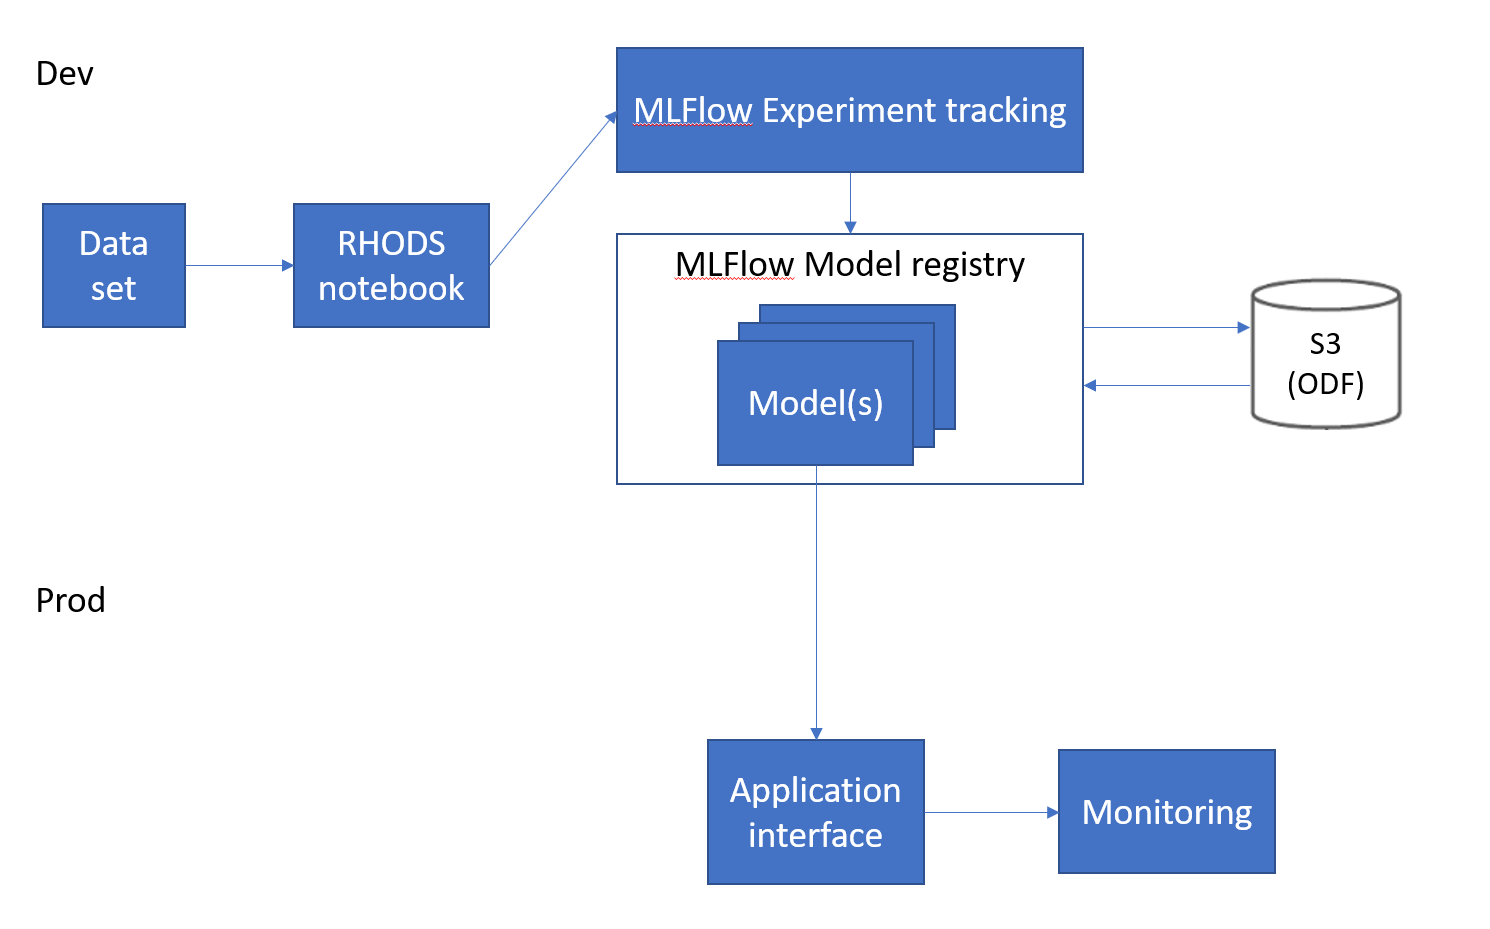
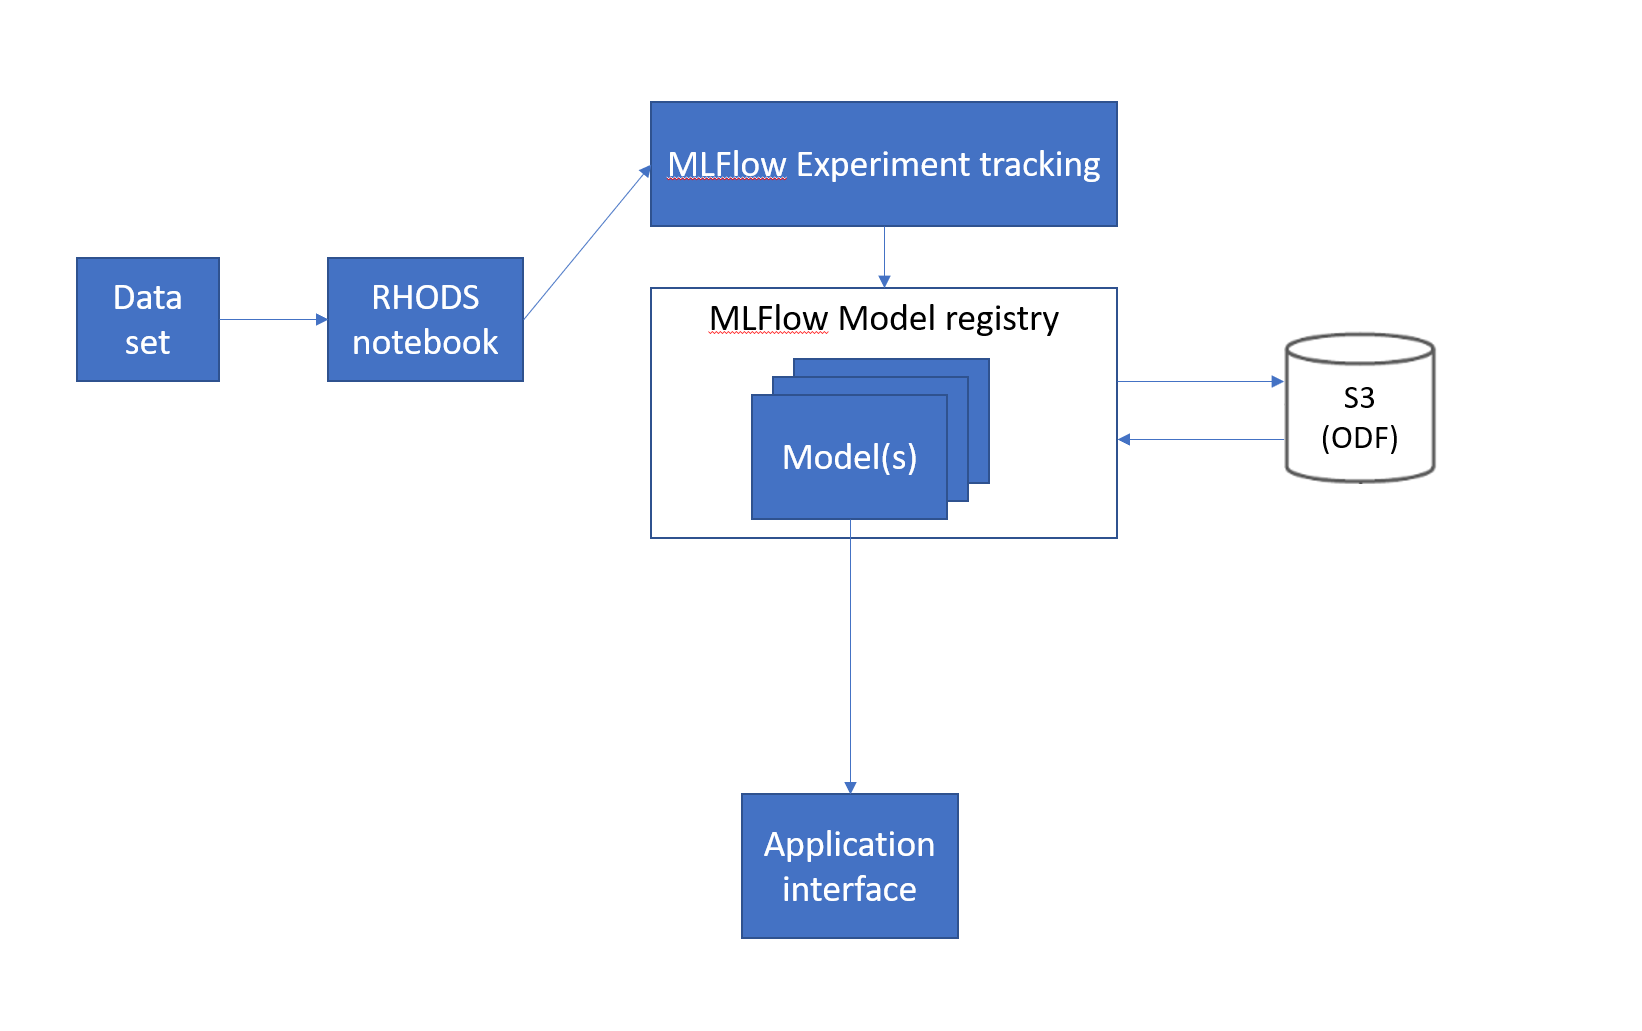
Scaled back version of the demo

diff --git a/docs/demos/credit-card-fraud.md b/docs/demos/credit-card-fraud.md
@@ -11,7 +11,6 @@ The goal of this demo is to demonstrate how RHODS and MLFlow can be used togethe
 - Build and train models in RHODS
 - Track and store those models with MLFlow
 - Deploy a model application in OpenShift that predicts with a specific model from MLFlow
-- Observe how the model performs in production
 
 The architecture looks like this:
 ![Diagram](img/Diagram.PNG)
@@ -43,7 +42,7 @@ NOTE: This route and port only work internally in the cluster.
 Alternatively, you can use the OC command to get the route through: `oc get route mlflow | grep mlflow`
 
 ### 2: Create a RHODS workbench
-Open up RHODS and create a new Data Science project (see image), this is where we will build and train our model. This will also create a namespace in OpenShift which is where we will be running our appliaction after the model is done.  
+Open up RHODS and create a new Data Science project (see image), this is where we will build and train our model. This will also create a namespace in OpenShift which is where we will be running our application after the model is done.  
 I'm calling my project 'Credit Fraud', feel free to call yours something different but be aware that some things further down in the demo may change.
 ![Create Data Science Project](img/Create_data_science_project.png)
 
@@ -116,18 +115,3 @@ We are also utilizing a program called "Gradio" to create the interface, it's a 
 
 Try entering a few values and see if it predicts it as a credit fraud or not. You can select one of the examples at the bottom of the application page.
 ![Gradio](img/Gradio.PNG)
-
-
-### 6: Set up monitoring with Prometheus
-Now that we have an application and model running, we want to monitor what data goes through the model so we can alert on any detected frauds and see if the model starts drifting (the average inputs change) over time.  
-We will use Prometheus for gathering the data.
-
-To set up Prometheus, start by going to the OpenShift Console as an Administrator and go to OperatorHub.
-Find the Prometheus Operator and make sure to install it in the credit-fraud namespace - this is so we have everything application related in the same namespace.
-![Prometheus Operator](img/Prometheus_Operator.png)
-
-The deployed model was already built to send data to Prometheus so no changes are needed there.  
-Simply go to the model and run some data through it to see what happens in Prometheus.
-
-
-### 7: Set up alerting with Graphana
